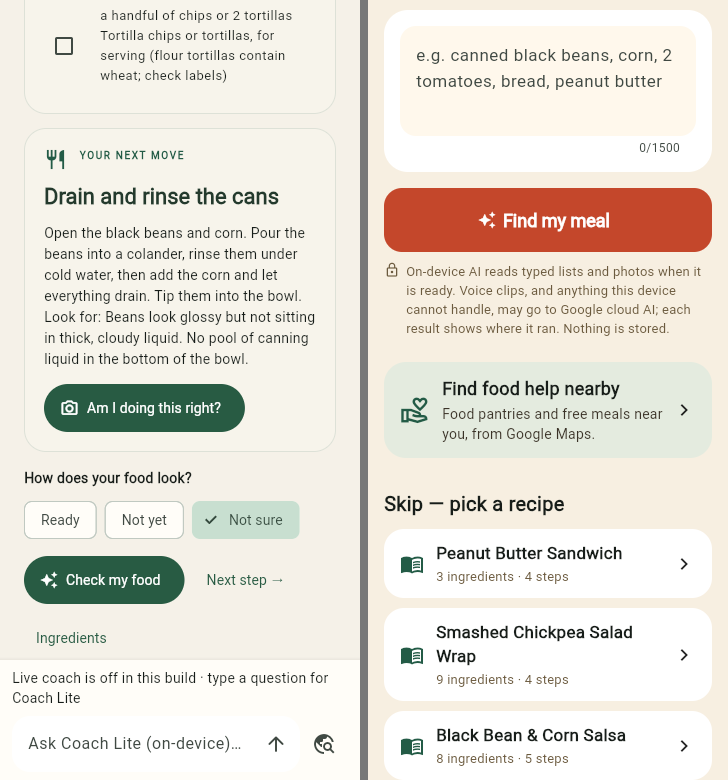
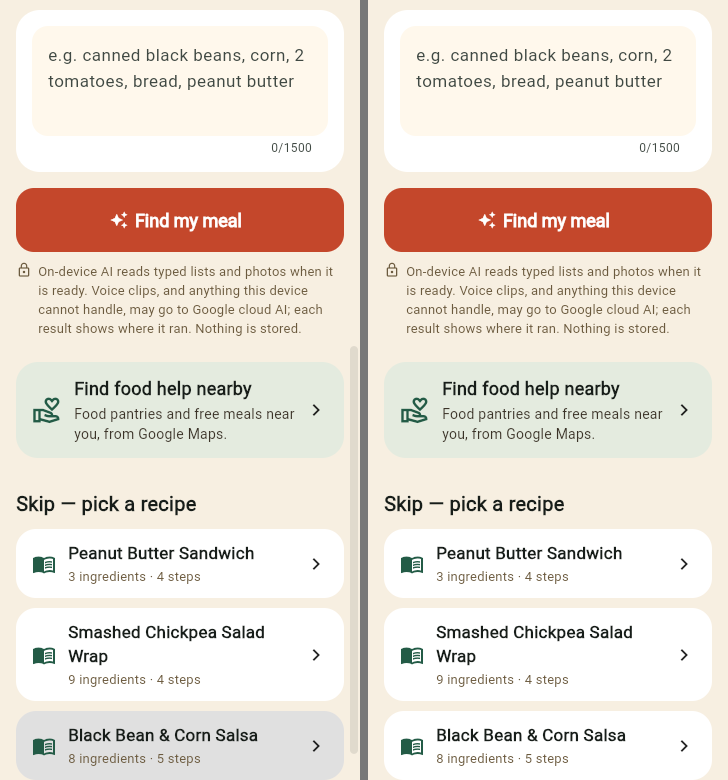
docs(validation): self-review fixes to the a11y audit
- A11Y-03: drop the dinner-dialog case (did not reproduce keyboard-only);
  keep the home Tab-wrap case with exact stops and a built-in-browser
  spot check; new screenshot 05.
- A11Y-04: composer entered 6 times in 40 stops (was 4-5); explain the
  doubled 'New cook' stop (allergen chip focus not mirrored in semantics).
- Reword every screen-reader claim as read from the semantics DOM, not heard.
- A11Y-06/07: mark voice control and Chrome font settings as not tested;
  drop the hint truncation (its ellipsis is in the string).
- A11Y-09: say the pixel figures are the best case.
- Sheets: Escape now verified; first Tab goes into the sheet, not Dismiss.
- Severity scale covers the level A LOW findings; summary scoped to the
  cloud-free journey.

Refs #239

Changed region(s): [[0.0, 0.1846, 0.5137, 1.0], [0.0604, 0.0, 0.4231, 0.1231]]

diff --git a/docs/validation/accessibility-audit.md b/docs/validation/accessibility-audit.md
@@ -8,8 +8,8 @@ No code was changed. Each real defect is filed as its own `buildhybridai` card f
 | **Date** | 2026-11-26 |
 | **Site** | https://devfest-flutter-a59e8.web.app |
 | **Build audited** | `/version.json`: `commit 57209d1f6ed71501d0210d4a066d1e7c7a2d9169`, `ref main`, `LIVE_BACKEND none`, `DINNER_MODE simulated`, `CLOUD_ROUTES hybridFallback,research` |
-| **Evidence level** | Live hosted build, driven in headless Chrome. No fakes, emulators or physical devices. No real screen reader was used (see [What a person still needs to check](#what-a-person-still-needs-to-check)). |
-| **Browser** | Google Chrome 158.0.8127.38, headless (`--headless=new`), macOS |
+| **Evidence level** | Live hosted build, driven in headless Chrome, with a spot check of A11Y-03 in the Claude desktop app's built-in (non-headless) browser. No fakes, emulators or physical devices. No real screen reader was used: every "would announce" below is read from the semantics DOM, not heard (see [What a person still needs to check](#what-a-person-still-needs-to-check)). |
+| **Browser** | Google Chrome 158.0.8127.38, headless (`--headless=new`), macOS. Headless Chrome reports the on-device model as available, so home shows a *Set up on-device AI* banner; the built-in browser shows "This device can't run on-device AI" with *Show me how* instead. Focus-stop numbers below are for headless Chrome. |
 | **Tools** | Lighthouse 12.8.2 (via `npx lighthouse@12`); axe-core 4.14.1 via `@axe-core/puppeteer` 4.14.1; puppeteer-core 24.43.1 for scripted keyboard, semantics-tree and pixel-contrast checks |
 | **Viewports** | Phone: 360×780 CSS px (DPR 1 for the manual pass; Lighthouse mobile used 360×780 at DPR 2). Desktop: 1440×900 (manual and axe); Lighthouse `--preset=desktop` (1350×940). |
 | **Standard** | WCAG 2.2 level AA, plus the card's own bar of 48 px touch targets |
@@ -21,8 +21,8 @@ after the next promotion. That was a code search, not a run of the trunk build.
 
 ## Summary
 
-**12 findings: 0 BLOCKER · 2 HIGH · 7 MEDIUM · 3 LOW.** The hero journey can be completed with a keyboard
-alone and every control has a name, so nothing blocks a user outright. The biggest problems are a focus
+**12 findings: 0 BLOCKER · 2 HIGH · 7 MEDIUM · 3 LOW.** The cloud-free parts of the hero journey can be
+completed with a keyboard alone and every control checked has a name, so nothing blocks a user outright. The biggest problems are a focus
 indicator you can barely see, and a cook step that changes without telling a screen-reader user.
 
 ### Defect cards
@@ -33,7 +33,7 @@ All 12 are filed unassigned with the `buildhybridai` label, for Terry's session 
 |---|---|---|---|
 | A11Y-01 | HIGH | Keyboard focus indicator is almost invisible — all screens | [SS-113 (#251)](https://github.com/terryhh/SousSight/issues/251) |
 | A11Y-02 | HIGH | Moving to the next cook step is silent for screen readers — cook screen | [SS-114 (#252)](https://github.com/terryhh/SousSight/issues/252) |
-| A11Y-03 | MEDIUM | Keyboard focus lands off-screen or behind the Coach Lite box — home, cook | [SS-115 (#253)](https://github.com/terryhh/SousSight/issues/253) |
+| A11Y-03 | MEDIUM | After Tab passes the last control, focus lands off-screen — home | [SS-115 (#253)](https://github.com/terryhh/SousSight/issues/253) |
 | A11Y-04 | MEDIUM | The Coach Lite box keeps re-entering the Tab order — cook screen | [SS-116 (#254)](https://github.com/terryhh/SousSight/issues/254) |
 | A11Y-05 | MEDIUM | No headings or landmarks on the home and cook screens | [SS-117 (#255)](https://github.com/terryhh/SousSight/issues/255) |
 | A11Y-06 | MEDIUM | Semantics are off by default, so voice control and automated checks see an empty page — all screens | [SS-118 (#256)](https://github.com/terryhh/SousSight/issues/256) |
@@ -48,8 +48,9 @@ Severity scale used here:
 
 - **BLOCKER**: a user group cannot finish the hero journey.
 - **HIGH**: a serious barrier in the hero journey for a user group, though there is a workaround.
-- **MEDIUM**: a WCAG 2.2 AA failure with a workaround, or limited in scope.
-- **LOW**: a best-practice gap, or the card's 48 px bar missed while WCAG still passes.
+- **MEDIUM**: a WCAG 2.2 level A or AA failure that makes a task noticeably harder, with a workaround.
+- **LOW**: a WCAG failure with small impact because the same information is next to it (A11Y-10,
+  A11Y-11), or the card's 48 px bar missed while WCAG still passes (A11Y-12).
 
 ### Automated results
 
@@ -106,7 +107,8 @@ No credentials were entered and no cloud upload was agreed to.
 
 ## Findings
 
-Each finding links its card. Steps assume a fresh load of the site in Chrome.
+Each finding links its card. Steps assume a fresh load (site data cleared) in Chrome at 360×780 unless they
+say otherwise; the app restores an unfinished cook from local storage, which changes Tab stops.
 
 ### A11Y-01 · HIGH · Keyboard focus indicator is almost invisible — all screens · [SS-113 (#251)](https://github.com/terryhh/SousSight/issues/251)
 
@@ -131,62 +133,75 @@ Each finding links its card. Steps assume a fresh load of the site in Chrome.
 
 ### A11Y-02 · HIGH · Moving to the next cook step is silent for screen readers — cook screen · [SS-114 (#252)](https://github.com/terryhh/SousSight/issues/252)
 
-- **Steps:** Turn semantics on (screen reader running), open a recipe, and activate *Next step →*.
+- **Steps:** Turn semantics on (click the hidden *Enable accessibility* button, as a screen reader would),
+  open *Black Bean & Corn Salsa*, scroll to the step card, and activate *Next step →*.
 - **Result:**
   - The step card's text changes and the progress counter moves from "1 / 5" to "2 / 5".
   - Focus stays on *Next step →*.
-  - Nothing is announced. Both live-region hosts stayed empty: a MutationObserver on every `aria-live`
-    element recorded no text.
-  - Starting the 5-minute timer is also silent.
-  - A blind cook with busy hands has to swipe back up to find the new instruction.
+  - Nothing would be announced: a MutationObserver on every `aria-live` element (Flutter's two announcement
+    hosts and any live-region nodes) recorded no text in the 2.5 s after the press. The same observer did
+    record the timer-finished text (below), so the method catches announcements when they happen.
+  - Starting the 5-minute timer on step 4 also recorded no text.
+  - So a blind cook with busy hands would have to move back up to find the new instruction.
 - **WCAG:** 4.1.3 Status Messages (AA).
 - **Evidence:** [02-step-change-silent.png](accessibility-audit/02-step-change-silent.png). Step 2 is shown;
-  the screen reader announced nothing.
+  no live-region text was recorded.
 - **Suggested fix:** When the step changes, either
   - call `SemanticsService.announce('Step 2 of 5. Chop the tomato and onion. …', TextDirection.ltr)`, or
   - mark the step card `Semantics(liveRegion: true)`.
 
   Also announce "5-minute timer started" when a timer starts. Moving focus to the step title is an
   alternative, but announcing keeps the cook's place on the button.
-- **What passed here:** timer *completion* is announced. A polite live region spoke "TIME TO CHECK. Let the
-  flavors meld. Let the flavors meld timer finished. Check your food. 0:00" when the timer ran out
+- **What passed here:** timer *completion* goes to a polite live region. When the timer ran out, the region's
+  text became "TIME TO CHECK / Let the flavors meld / Let the flavors meld timer finished. Check your food. /
+  0:00"
   (`lib/genui/cooking_catalog.dart`, `_TimerPanel`).
 
 ![Step change silent](accessibility-audit/02-step-change-silent.png)
 
-### A11Y-03 · MEDIUM · Keyboard focus lands off-screen or behind the Coach Lite box — home, cook · [SS-115 (#253)](https://github.com/terryhh/SousSight/issues/253)
+### A11Y-03 · MEDIUM · After Tab passes the last control, focus lands off-screen — home · [SS-115 (#253)](https://github.com/terryhh/SousSight/issues/253)
 
-- **Steps, cook screen:** Scroll to the bottom and open *Review dinner message*. Press Escape.
-- **Result, cook screen:** Focus goes back to the *Review dinner message* button at y = 710–758, which sits
-  fully behind the sticky Coach Lite box (y = 660–780). The page does not scroll it into view.
-- **Steps, home:** Press Tab 15 times, past the last recipe card, so focus wraps to the header.
-- **Result, home:** The next eight focus stops (the header icons, *Set up on-device AI*, Scan, Say it,
-  Type it) are about 600 px above the viewport. The page stays scrolled to the bottom, so the user sees no
-  focus at all.
-- **WCAG:** 2.4.11 Focus Not Obscured (Minimum) (AA, WCAG 2.2); 2.4.7 Focus Visible (AA).
-- **Evidence:** [05-focus-hidden.png](accessibility-audit/05-focus-hidden.png). Left: after Escape, focus is
-  under the composer. Right: home after the Tab wrap; nothing focused is visible.
-- **Suggested fix:**
-  - Let focus changes scroll the focused control into view, using `Scrollable.ensureVisible` from a
-    `Focus(onFocusChange:)` or from the dialog's close handler.
-  - Leave room for the composer at the bottom of the cook screen's scroll view. Padding equal to the
-    composer's height, or `MediaQuery.viewPadding`, lets `ensureVisible` keep controls above it.
+- **Steps (headless Chrome, semantics on or off):** Fresh load at 360×780. Press Tab 14 times: focus is on
+  the last recipe card, *Black Bean & Corn Salsa*, and the page has scrolled to the bottom. Tab 15 focuses the
+  page itself (`flutter-view`). Press Tab twice more.
+- **Result:** Tabs 16–23 focus the header icons, *Set up on-device AI*, Scan, Say it and Type it, which are
+  above the viewport (`getBoundingClientRect().y` from −602 for the header icons to −88 for the tiles). The page does
+  not scroll back, so for eight presses the user sees no focused control. Tab 24 (the text field) finally
+  scrolls it into view.
+- **Spot check in a non-headless browser:** in the Claude desktop app's built-in browser (about 800×600), after
+  21 Tab presses the page also stayed scrolled to the bottom with no visible focus. Desktop Chrome first sends
+  Tab to its own toolbar after the last control; what it does when focus comes back was **not checked**.
+- **Not reproduced (removed in review):** an earlier draft also said closing the dinner dialog returns focus
+  behind the Coach Lite box. That only happened after opening the dialog with the mouse after a wheel scroll.
+  Keyboard-only (Tab to *Review dinner message*, Enter, Escape), focus returns to the button at y = 616–660,
+  just above the box, so it is not a finding.
+- **WCAG:** 2.4.7 Focus Visible (AA).
+- **Evidence:** [05-focus-hidden.png](accessibility-audit/05-focus-hidden.png). Left: Tab 14, last recipe
+  focused. Right: Tab 17, focus is on *What was sent* off-screen and nothing visible is focused.
+- **Suggested fix:** Scroll the focused control into view when focus enters a control outside the viewport:
+  `Scrollable.ensureVisible` from a `Focus(onFocusChange:)` on the home list items, or a
+  `FocusTraversalPolicy` whose `requestFocusCallback` always calls `ensureVisible`, including when traversal
+  wraps.
 
-![Focus hidden](accessibility-audit/05-focus-hidden.png)
+![Focus off-screen](accessibility-audit/05-focus-hidden.png)
 
 ### A11Y-04 · MEDIUM · The Coach Lite box keeps re-entering the Tab order — cook screen · [SS-116 (#254)](https://github.com/terryhh/SousSight/issues/254)
 
-- **Steps:** Open a recipe and Tab from the top.
+- **Steps:** Fresh load, open *Black Bean & Corn Salsa*, and press Tab 40 times from the top.
 - **Result:** The sequence runs:
   - *Back to pantry* → *New cook* → the four header icons
   - → **Ask Coach Lite → Send → Research**
   - → *Watch my food* → **Ask Coach Lite → Send → Research**
   - → the first seven ingredients → **Ask Coach Lite**
   - → the last ingredient → **Ask Coach Lite → Send → Research**
-  - → *Am I doing this right?* …
+  - → *Am I doing this right?* → Ready → Not yet → Not sure → *Check my food* → *Next step* → *Ingredients*
+  - → **Ask Coach Lite → Send** → *Review dinner message* → *Text household* → **Ask Coach Lite → Send → Research**
 
-  The composer comes up 4–5 times per pass, between content sections, because traversal follows on-screen
-  position and the composer is pinned to the bottom. *New cook* also needs two Tab presses (stops 2 and 3).
+  The composer is entered **6 times in 40 stops**, between content sections, because traversal follows
+  on-screen position and the composer is pinned to the bottom.
+- **Related:** Tab 3 visibly focuses the *Contains: wheat* chip, but the chip's semantics node has no
+  `tabindex`, so `document.activeElement` (what a screen reader follows) stays on *New cook*. The DOM log
+  therefore shows *New cook* twice; the chip itself is reachable by keyboard.
 - **WCAG:** 2.4.3 Focus Order (A).
 - **Evidence:** [04-composer-tab-order.png](accessibility-audit/04-composer-tab-order.png). Tab 7 is on
   *How it works*; Tab 8 jumps into the composer at the bottom.
@@ -225,13 +240,14 @@ Each finding links its card. Steps assume a fresh load of the site in Chrome.
 - **Result:**
   - The only accessible element is `<flt-semantics-placeholder role="button" aria-label="Enable accessibility">`,
     1×1 px at (−1, −1). There are 0 `flt-semantics` nodes.
-  - Screen readers that find and press that button get the full tree.
-  - Voice-control users (macOS Voice Control, Dragon) and switch users don't: "Click Scan" has nothing to
-    target.
+  - By Flutter's design, a screen reader that finds and presses that button turns the full tree on (seen here
+    by clicking it from script; not tried with a real screen reader).
+  - Tools that don't press it, such as voice control (macOS Voice Control, Dragon) and switch access, are
+    expected to find no named controls, so "Click Scan" would have nothing to target. This is inferred
+    from the DOM, **not tested** with those tools.
   - Lighthouse and axe likewise score the empty page 100 / 0 violations (44 Lighthouse audits not applicable).
     A judge who runs Lighthouse sees a number that proves nothing.
-- **WCAG:** 4.1.2 Name, Role, Value (A), for anything that doesn't press the placeholder; 2.5.3 Label in Name
-  (A), for voice control.
+- **WCAG:** 4.1.2 Name, Role, Value (A), for assistive technology that doesn't press the placeholder.
 - **Evidence:** [06-lighthouse-hollow-100.png](accessibility-audit/06-lighthouse-hollow-100.png).
 - **Suggested fix:** On web, call `SemanticsBinding.instance.ensureSemantics()` once at startup, in `main()`
   behind `kIsWeb`. The cost is some performance on large trees; measure on a low-end Android phone. Then re-run
@@ -241,15 +257,19 @@ Each finding links its card. Steps assume a fresh load of the site in Chrome.
 
 ### A11Y-07 · MEDIUM · At 200% text the title breaks mid-word and the Coach Lite box cuts off text — home, cook · [SS-119 (#257)](https://github.com/terryhh/SousSight/issues/257)
 
-- **Steps:** Set Chrome's font size to 32 px (*Settings → Appearance → Font size*, or `html { font-size: 32px }`
-  before load; Flutter reads it as 2.0× text scale), then reload at 360 px.
+- **Steps:** Before the page loads, set the root font size to 32 px (the audit injected
+  `html { font-size: 32px }` with `evaluateOnNewDocument`; Flutter read it as 2.0× text scale, and the
+  *Scan* tile's text doubled). Chrome's *Settings → Appearance → Customize fonts → Font size* set to 32
+  should do the same but was **not tried**. Changing the size after load had no effect until reload.
 - **Result:**
   - The home header shows **"So / usS / ight"** over three lines, and the tagline wraps one word per line.
     Even at 100% the title already breaks as "SousSi / ght" at 360 px.
   - On the cook screen, the sticky composer grows to about 235 px, roughly 30% of the screen. Its notice is cut
-    to "Live coach is off in this build · type a question f…" and its hint to "Ask Coach Lite (on-device)…",
-    because of `maxLines: 2` with ellipsis (`cooking_app.dart` around line 941).
-  - The rest of the screens reflow without loss.
+    to "Live coach is off in this build · type a question f…" because of `maxLines: 2` with ellipsis
+    (`cooking_app.dart` lines 939–942). At 100% the full sentence shows. (The hint's "…" is part of the
+    string, `'Ask Coach Lite (on-device)…'`, so it is not a loss.)
+  - The rest of home and the cook screen reflowed without loss. The sheets and the dinner dialog were not
+    checked at 200%.
 - **WCAG:** 1.4.4 Resize Text (AA). Content is lost at 200%.
 - **Evidence:** [07-text-200.png](accessibility-audit/07-text-200.png). Left: home at 200%. Right: cook screen
   at 200%.
@@ -268,9 +288,10 @@ Each finding links its card. Steps assume a fresh load of the site in Chrome.
 - **Result:**
   - Before typing, the field's accessible name is its example text: "e.g. canned black beans, corn, 2 tomatoes,
     bread, peanut butter".
-  - After typing, Flutter removes the `aria-label`. The only name left is that same placeholder example, and
-    nothing visible says what the field is for.
-  - A screen reader announces an example list, not "What's in your pantry".
+  - After typing, Flutter removes the `aria-label` and sets `placeholder` to the same example, so Chrome's
+    computed name falls back to the example. Nothing visible names the field once text is in it; only the
+    selected *Type it* tile above hints at its purpose.
+  - So a screen reader would read an example list, not "What's in your pantry".
 - **WCAG:** 3.3.2 Labels or Instructions (A); 1.3.1 Info and Relationships (A).
 - **Evidence:** [09-field-label.png](accessibility-audit/09-field-label.png). After typing, there is no label.
 - **Suggested fix:** Give the `TextField` in `pantry_screen.dart` (around line 790) a
@@ -284,8 +305,9 @@ Each finding links its card. Steps assume a fresh load of the site in Chrome.
 - **Result:**
   - The 12 px, w800 text is in `pantryMustard` `#F2B84B` on a gradient that runs from `#2C6A4F` (top-left,
     where the text sits) to `#173F30`.
-  - The token pair is **3.58:1**. On-screen pixels measured 4.29:1 at 1440 px and 4.88:1 at 360 px (the text
-    lands on a darker part of the gradient on phones).
+  - The token pair is **3.58:1**. On screen, the *best* pair inside the text's box (the mustard against the
+    darkest green behind it) measured 4.29:1 at 1440 px and 4.88:1 at 360 px; lighter greens behind the same
+    text are lower. So it fails at desktop width for certain, and at phone width on parts of the text.
   - Small text needs 4.5:1.
 - **WCAG:** 1.4.3 Contrast (Minimum) (AA).
 - **Evidence:** [08-eyebrow-contrast.png](accessibility-audit/08-eyebrow-contrast.png) (1440 px).
@@ -299,7 +321,7 @@ Each finding links its card. Steps assume a fresh load of the site in Chrome.
 
 - **Steps:** Turn semantics on and inspect *Ready / Not yet / Not sure*.
 - **Result:** Each is exposed as `role=checkbox` with `aria-checked`. "Not sure" starts checked. The choice is
-  single-select, but a screen reader says "checkbox, checked" and gives no group name.
+  single-select, but a screen reader would say "checkbox, checked", and there is no group name.
 - **WCAG:** 4.1.2 Name, Role, Value (A); 1.3.1 Info and Relationships (A).
 - **Evidence:** [10-chips-as-checkboxes.png](accessibility-audit/10-chips-as-checkboxes.png).
 - **Suggested fix:** Wrap the `ChoiceChip`s (`cooking_app.dart` around line 1143) in
@@ -311,7 +333,7 @@ Each finding links its card. Steps assume a fresh load of the site in Chrome.
 ### A11Y-11 · LOW · The step progress bar announces a bare number — cook screen · [SS-123 (#261)](https://github.com/terryhh/SousSight/issues/261)
 
 - **Steps:** On step 3 of 5, inspect the progress bar under "Your cooking space".
-- **Result:** `role=progressbar aria-valuenow=40 aria-label="40"`. A screen reader says "40, progress bar",
+- **Result:** `role=progressbar aria-valuenow=40 aria-label="40"`. A screen reader would read "40, progress bar",
   with no unit or context. The "3 / 5" text next to it is a separate node.
 - **WCAG:** 4.1.2 Name, Role, Value (A); 1.3.1 (A).
 - **Evidence:** [11-progress-label.png](accessibility-audit/11-progress-label.png).
@@ -335,7 +357,8 @@ Each finding links its card. Steps assume a fresh load of the site in Chrome.
 
 ## What passed
 
-- **Keyboard reachability:** every control in the journey can be reached with Tab. Enter activates a focused
+- **Keyboard reachability:** every control on the cloud-free journey can be reached with Tab, including the
+  ones that weren't pressed (see A11Y-04 for the allergen chip's semantics). Enter activates a focused
   recipe card with semantics off. The home Tab order matches reading order (header → banner → Scan / Say it /
   Type it → field → *Find my meal* → nearby → recipes).
 - **Names:** every icon-only button has a name: *On-device AI*, *What was sent*, *Check a label*, *How it
@@ -345,12 +368,14 @@ Each finding links its card. Steps assume a fresh load of the site in Chrome.
 - **Dinner review dialog:**
   - It is exposed as `alertdialog`.
   - Tab cycles only within it (Close → Simulate failed delivery → Confirm simulated send).
-  - Escape closes it and returns focus to the button that opened it (but see A11Y-03).
+  - Escape closes it and returns focus to the button that opened it. Keyboard-only, that button stays visible
+    above the Coach Lite box.
   - "Simulated — no SMS sent" and "Recipient: Demo household (fictional)" are in the text at 14:1.
 - **Sheets:** How it works, What was sent, On-device AI and Check a label all expose `<h2>` headings. Escape
-  closes each one, and the first Tab lands on *Dismiss*.
-- **Timer:** the countdown isn't a live region, so it doesn't speak every second. Completion is announced
-  politely.
+  closes each one (their headings leave the DOM), and the first Tab goes into the sheet: its content group,
+  or its first control (*Set up on-device AI*, the *milk* chip). They are not exposed with `role=dialog`.
+- **Timer:** the countdown isn't a live region, so it won't be read every second. Completion goes to a polite
+  live region (A11Y-02).
 - **Text contrast:** all body and button text measured at least 4.5:1, apart from A11Y-09. Examples:
   - `#285B43` on cream: 6.98:1
   - white on `#C4472B` (*Type it*, *Find my meal*): 4.90:1
@@ -358,15 +383,16 @@ Each finding links its card. Steps assume a fresh load of the site in Chrome.
   - field hint `#404943` on `#FFF8EC`: 8.83:1
   - icon glyphs `#404943`: 8.2:1
 - **Touch targets:** header icon buttons 48×48. Scan / Say it / Type it 103×84. Food-look chips 73–108×48.
-  Ingredient rows at least 48 tall. Composer buttons 48×48. Dinner dialog buttons 48 tall. The only one under
-  48 is A11Y-12.
+  Ingredient rows at least 48 tall. Composer buttons 48×48. Dinner dialog buttons 48 tall. Label-check allergen chips
+  48 tall. On-device AI sheet rows 56–80 tall. Of the controls measured fully on screen, the only one under 48
+  is A11Y-12.
 - **Motion:**
   - With `prefers-reduced-motion: reduce`, Flutter sets `disableAnimations` and the sheets open instantly.
     Measured: frames identical to the settled frame from about 100 ms, against about 230 ms of animation
     without the setting.
-  - There is no looping, flashing or auto-moving decorative content; the only animations are loading
-    spinners and route/sheet transitions.
-- **Reflow at 100%:** no horizontal scrolling at 360 px. The viewport meta allows zoom up to 5×.
+  - No looping, flashing or auto-moving decorative content was seen, and a source search found no
+    `AnimationController`; the only animations are loading spinners and route/sheet transitions.
+- **Reflow at 100%:** no horizontal scrolling at 360 px (`scrollWidth` 360 = `innerWidth`). The viewport meta allows zoom up to 5×.
 - **Page basics:** `lang="en-US"` and `<title>SousSight</title>`.
 
 ## What a person still needs to check
